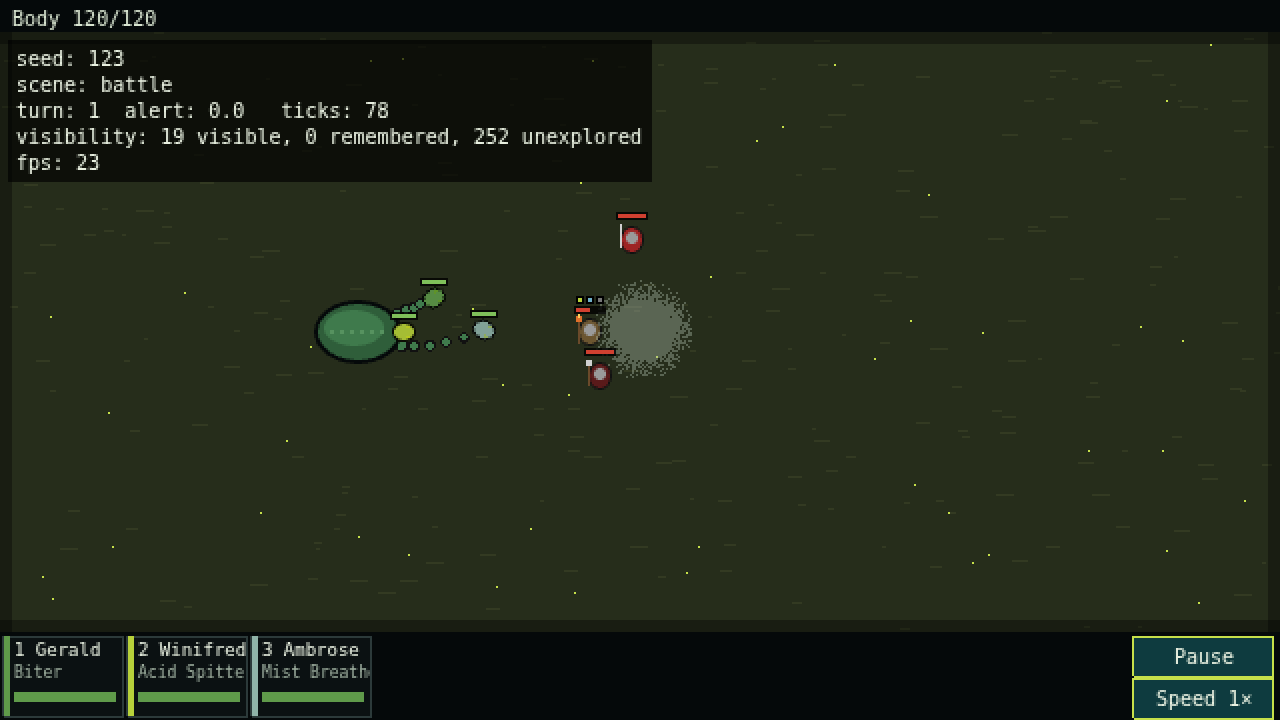
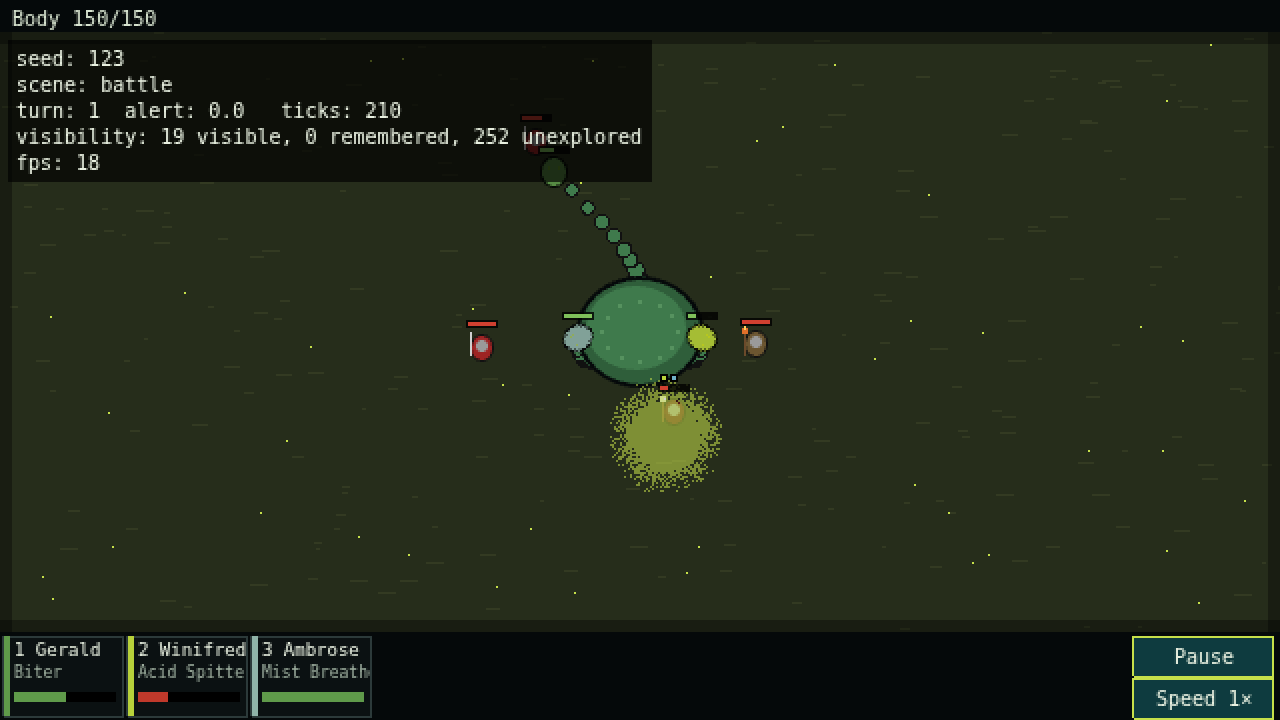
Add smoke test and balance report commands
npm run smoke plays the built game like a player (map, two battles with
orders, a defeat and a new run). npm run balance plays 200 automatic
battles per enemy group, with and without orders, and writes
docs/BALANCE.md. README points to the renamed repo (lucid-academy/hydra).

diff --git a/scripts/balance.ts b/scripts/balance.ts
@@ -1,0 +1,129 @@
+// Balance report: plays many automatic battles against every enemy group from src/data/enemies.json
+// and shows how they end. Run it after changing numbers in src/data/:  npm run balance
+// It prints a table and saves the same table to docs/BALANCE.md (scripts/balance.mjs does the running and saving).
+//
+// Two "players" are compared:
+//   - "no orders":  the hydra is left alone, heads pick their own targets.
+//   - "focus fire": every head that can reach is ordered onto one enemy at a time
+//                   (Torchbearers first, then Headhunters, then the weakest). A simple stand-in for a careful player.
+// If "focus fire" is not clearly better than "no orders", the player's orders don't matter enough.
+
+import { loadGameData } from '../src/data';
+import { battleRulesFrom } from '../src/data/battleRules';
+import { runRulesFrom } from '../src/data/runRules';
+import { applyCommand, createBattle, distance, neckReach, stepBattle } from '../src/sim/battle';
+import type { BattleRules, BattleState, Enemy } from '../src/sim/battle';
+import { hex } from '../src/sim/hex';
+import { createRun, pendingBattleSetup } from '../src/sim/turn';
+
+/** A battle still running after this many seconds of game time counts as a stalemate. */
+const TIME_LIMIT_SECONDS = 600;
+
+type Policy = 'no orders' | 'focus fire';
+const POLICIES: Policy[] = ['no orders', 'focus fire'];
+
+const data = loadGameData();
+const rules = battleRulesFrom(data);
+const runRules = runRulesFrom(data);
+
+/** Lower number = kill first. */
+function priority(enemy: Enemy, r: BattleRules): number {
+  const behavior = r.enemyTypes[enemy.typeId]!.behavior;
+  return behavior === 'torchbearer' ? 0 : behavior === 'headhunter' ? 1 : 2;
+}
+
+function giveFocusOrders(state: BattleState, r: BattleRules): void {
+  for (const head of state.heads) {
+    const range = r.headClasses[head.classId]!.attack.range;
+    const inReach = state.enemies.filter((e) => distance(state.body.pos, e.pos) <= neckReach(r) + range + r.enemyTypes[e.typeId]!.radius);
+    inReach.sort((a, b) => priority(a, r) - priority(b, r) || a.hp - b.hp || a.id - b.id);
+    const target = inReach[0];
+    if (!target) {
+      if (head.orderTargetId !== null) applyCommand(state, { type: 'clearOrder', headId: head.id }, r);
+    } else if (head.orderTargetId !== target.id) {
+      applyCommand(state, { type: 'attack', headId: head.id, enemyId: target.id }, r);
+    }
+  }
+}
+
+interface Totals {
+  won: number;
+  lost: number;
+  stalemate: number;
+  seconds: number;
+  severed: number;
+  cauterized: number;
+  combos: number;
+  headsAtEnd: number;
+  bodyHpLost: number;
+}
+
+function play(groupId: string, policy: Policy, battles: number): Totals {
+  const t: Totals = { won: 0, lost: 0, stalemate: 0, seconds: 0, severed: 0, cauterized: 0, combos: 0, headsAtEnd: 0, bodyHpLost: 0 };
+  for (let seed = 1; seed <= battles; seed++) {
+    // The same start as in the game: a fresh hydra with its starting heads walks into this group.
+    const run = createRun(seed, runRules);
+    run.pendingBattle = { at: hex(0, 0), groupId };
+    const state = createBattle(pendingBattleSetup(run, runRules)!, rules);
+    const startHp = state.body.hp;
+    while (!state.outcome && state.tick < TIME_LIMIT_SECONDS * rules.ticksPerSecond) {
+      // A player re-thinks orders now and then, not twenty times a second.
+      if (policy === 'focus fire' && state.tick % 10 === 0) giveFocusOrders(state, rules);
+      stepBattle(state, rules);
+      for (const event of state.events) {
+        if (event.type === 'severed') t.severed++;
+        else if (event.type === 'cauterized') t.cauterized++;
+        else if (event.type === 'combo') t.combos++;
+      }
+    }
+    if (state.outcome === 'won') t.won++;
+    else if (state.outcome === 'lost') t.lost++;
+    else t.stalemate++;
+    t.seconds += state.tick / rules.ticksPerSecond;
+    t.headsAtEnd += state.heads.length;
+    t.bodyHpLost += startHp - Math.max(0, state.body.hp);
+  }
+  return t;
+}
+
+/** Plays `battles` battles per enemy group and player, and returns the results as a Markdown table and a full report. */
+export function balanceReport(battles = 200): { table: string; report: string } {
+  const header = ['Enemy group', 'Members', 'Player', 'Won', 'Lost', 'Avg. length', 'Heads severed', 'Stumps burnt', 'Combos', 'Body HP lost'];
+  const rows: string[][] = [];
+  for (const group of data.enemies.encounterGroups) {
+    for (const policy of POLICIES) {
+      const t = play(group.id, policy, battles);
+      const avg = (value: number) => (value / battles).toFixed(1);
+      const percent = (value: number) => `${Math.round((value / battles) * 100)}%`;
+      rows.push([
+        group.id,
+        group.members.map((id) => data.enemies.types[id]!.displayName).join(', '),
+        policy,
+        percent(t.won),
+        percent(t.lost) + (t.stalemate > 0 ? ` (+${percent(t.stalemate)} never ended)` : ''),
+        `${Math.round(t.seconds / battles)} s`,
+        avg(t.severed),
+        avg(t.cauterized),
+        avg(t.combos),
+        avg(t.bodyHpLost),
+      ]);
+    }
+  }
+
+  const table = [header, header.map(() => '---'), ...rows].map((cells) => `| ${cells.join(' | ')} |`).join('\n');
+  const startingHeads = data.heads.startingHeads.map((id) => data.heads.classes[id]!.displayName).join(', ');
+  const report = `# Balance report
+
+Made by \`npm run balance\` from the numbers in \`src/data/\`. Run it again after changing them; don't edit this file by hand.
+
+${battles} automatic battles per row, each with a fresh hydra (${startingHeads}) and ${data.balance.battle.bodyMaxHp} body HP.
+
+- **no orders:** the hydra is left alone, heads pick their own targets.
+- **focus fire:** every head that can reach attacks the same enemy (Torchbearers first, then Headhunters). A stand-in for a careful player.
+
+"Heads severed", "Stumps burnt", "Combos" and "Body HP lost" are averages per battle.
+
+${table}
+`;
+  return { table, report };
+}

diff --git a/docs/ASSETS.md b/docs/ASSETS.md
@@ -79,6 +79,10 @@ Prompt sketch: *"Pixel art game tile, 28x32 pixels, pointy-top hexagon, top-down
 
 A tiny hydra seen from above-front: a squat dark green body with **three heads** on short necks, eyes glowing yellow-green. Must read clearly at 20 px against teal and olive tiles; a dark outline helps.
 
+## Battle graphics: wait before drawing them
+
+> **Status (2026-09-30):** the battle screen may change from this top-down view to a slanted view with a hex grid (see the open decision in the project chat). Everything below describes the current top-down placeholders. **Don't generate final battle graphics yet**: their sizes and viewing angle would change.
+
 ## Battle arenas: battle_arena_water, battle_arena_mud
 
 | | |
@@ -94,7 +98,7 @@ The floor of the fight, seen **straight from above**. Which one is used depends 
 - **battle_arena_water:** a flooded cave: murky deep teal water, lighter teal ripple lines, a few glowing yellow-green spores.
 - **battle_arena_mud:** dark olive swamp mud, lighter clumps, a few glowing yellow-green spores.
 
-Keep the floor **quiet and low-contrast**: heads, necks, soldiers and HP bars are drawn on top and must stay readable. The outer ~6 px can be darker, like cave walls closing in. No objects that look like obstacles: the whole arena is walkable. The hydra starts on the left (around x 180, y 150), the Order on the right (around x 420).
+Keep the floor **quiet and low-contrast**: heads, necks, soldiers and HP bars are drawn on top and must stay readable. The outer ~6 px can be darker, like cave walls closing in. No objects that look like obstacles: the whole arena is walkable. The hydra sits in the middle (x 320, y 150) and the Order starts near the edges, all around it.
 
 Prompt sketch: *"Pixel art, 640x300, top-down view, hard pixels, no anti-aliasing. Floor of a [flooded cave, murky deep teal water with faint ripples / dark olive swamp mud with small clumps], scattered tiny yellow-green bioluminescent spores, darker edges. Low contrast, empty, no objects. Dark fantasy underground swamp."*
 
@@ -102,21 +106,21 @@ Prompt sketch: *"Pixel art, 640x300, top-down view, hard pixels, no anti-aliasin
 
 | | |
 |---|---|
-| Size | 44×32 px |
+| Size | 64×56 px |
 | Frames | 1 (static for now) |
-| Anchor | centre (22, 16) |
+| Anchor | centre (32, 28) |
 | Background | transparent |
 | Used in | battle screen, the hydra's Body |
 
-The hydra's torso **seen from above**, without heads or necks (the game draws the necks itself, starting at the body's edge, and the heads are separate sprites). A squat, dark green oval mass with a paler ridge of scales along the back and a dark outline. It faces right, but necks can leave it in any direction, so keep the outline roughly oval with no head-shaped bumps.
+The hydra's torso **seen from above**, without heads or necks (the game draws the necks itself, starting at the body's edge, and the heads are separate sprites). A squat, dark green, almost round mound with paler scales and a dark outline. It has no front or back: necks leave it evenly in every direction and soldiers stand all around it, so keep the outline a plain oval with no head-shaped bumps and no tail.
 
 ## battle_head
 
 | | |
 |---|---|
-| Size | 12×12 px |
+| Size | 16×16 px |
 | Frames | 1 (static for now) |
-| Anchor | centre (6, 6); the game rotates the sprite around it |
+| Anchor | centre (8, 8); the game rotates the sprite around it |
 | Background | transparent |
 | Used in | battle screen, one per head |
 
@@ -144,9 +148,9 @@ A new enemy type needs a graphic with the key `battle_enemy_<type id from enemie
 
 | | |
 |---|---|
-| Size | 8×8 px each |
+| Size | 10×10 px each |
 | Frames | 1 |
-| Anchor | centre (4, 4) |
+| Anchor | centre (5, 5) |
 | Background | transparent |
 | Used in | battle screen, at the body's edge where a head was severed |
 
@@ -163,4 +167,4 @@ A new enemy type needs a graphic with the key `battle_enemy_<type id from enemie
 | Background | transparent |
 | Used in | battle screen, where a Mist Breather's breath lands |
 
-A round puff of mist **seen from above**: solid in the middle, breaking up into scattered pixels towards the edge (dithering, not a smooth gradient), transparent corners. Draw it in **white / very pale grey**: the game tints it pale greenish grey for plain Mist and yellow-green when it turns into Acid Fog, and draws it half see-through over heads and soldiers. The game also scales it to the cloud radius from `src/data/combos.json` (now 26 px, so the sprite is shown at about 52×52).
+A round puff of mist **seen from above**: solid in the middle, breaking up into scattered pixels towards the edge (dithering, not a smooth gradient), transparent corners. Draw it in **white / very pale grey**: the game tints it pale greenish grey for plain Mist and yellow-green when it turns into Acid Fog, and draws it half see-through over heads and soldiers. The game also scales it to the cloud radius from `src/data/combos.json` (now 30 px, so the sprite is shown at about 60×60).

diff --git a/docs/BALANCE.md b/docs/BALANCE.md
@@ -1,0 +1,21 @@
+# Balance report
+
+Made by `npm run balance` from the numbers in `src/data/`. Run it again after changing them; don't edit this file by hand.
+
+200 automatic battles per row, each with a fresh hydra (Biter, Acid Spitter, Mist Breather) and 150 body HP.
+
+- **no orders:** the hydra is left alone, heads pick their own targets.
+- **focus fire:** every head that can reach attacks the same enemy (Torchbearers first, then Headhunters). A stand-in for a careful player.
+
+"Heads severed", "Stumps burnt", "Combos" and "Body HP lost" are averages per battle.
+
+| Enemy group | Members | Player | Won | Lost | Avg. length | Heads severed | Stumps burnt | Combos | Body HP lost |
+| --- | --- | --- | --- | --- | --- | --- | --- | --- | --- |
+| patrol | Man-at-Arms, Man-at-Arms, Man-at-Arms | no orders | 100% | 0% | 41 s | 3.1 | 0.0 | 5.7 | 23.9 |
+| patrol | Man-at-Arms, Man-at-Arms, Man-at-Arms | focus fire | 100% | 0% | 39 s | 1.8 | 0.0 | 6.4 | 35.3 |
+| huntingParty | Man-at-Arms, Headhunter, Headhunter | no orders | 100% | 0% | 32 s | 3.8 | 0.0 | 5.4 | 9.8 |
+| huntingParty | Man-at-Arms, Headhunter, Headhunter | focus fire | 100% | 0% | 32 s | 2.2 | 0.0 | 6.7 | 24.4 |
+| burningDetail | Man-at-Arms, Man-at-Arms, Torchbearer, Headhunter | no orders | 97% | 3% | 45 s | 5.0 | 0.6 | 5.9 | 47.1 |
+| burningDetail | Man-at-Arms, Man-at-Arms, Torchbearer, Headhunter | focus fire | 100% | 0% | 41 s | 2.1 | 0.0 | 9.2 | 54.4 |
+| lostNovices | Torchbearer, Torchbearer | no orders | 100% | 0% | 13 s | 0.0 | 0.0 | 4.3 | 0.0 |
+| lostNovices | Torchbearer, Torchbearer | focus fire | 100% | 0% | 12 s | 0.0 | 0.0 | 6.1 | 1.7 |

diff --git a/README.md b/README.md
@@ -2,11 +2,12 @@
 
 Browser roguelite: you are a hydra from an underground swamp, fighting the Order of the Eternal Flame.
 
-Play: https://lucid-academy.github.io/Hydra/
+Play: https://lucid-academy.github.io/hydra/
 
 - Design: [GAME_DESIGN.md](GAME_DESIGN.md)
 - Working rules: [CLAUDE.md](CLAUDE.md)
 - Graphics spec: [docs/ASSETS.md](docs/ASSETS.md)
+- Balance report: [docs/BALANCE.md](docs/BALANCE.md)
 
 ## Commands
 
@@ -17,6 +18,8 @@ npm run typecheck  # TypeScript checks
 npm test           # unit tests
 npm run build      # production build into dist/
 npm run shots      # screenshots of the built game into docs/screens/
+npm run smoke      # plays the built game like a player: map, battles, defeat (add "-- phone" for a phone-sized screen)
+npm run balance    # many automatic battles per enemy group; results go to docs/BALANCE.md
 ```
 
-URL parameters: `?seed=123` (replay a run), `?scene=title` (start in a scene: `title`, `map`, `battle`), `?debug=1` (debug overlay), `?scene=battle&group=patrol` (test battle against an enemy group from `src/data/enemies.json`).
+URL parameters: `?seed=123` (replay a run), `?scene=title` (start in a scene: `title`, `map`, `battle`), `?debug=1` (debug overlay), `?scene=battle&group=patrol` (test battle against an enemy group from `src/data/enemies.json`), `&hp=5` (start that test battle with 5 body HP), `?speed=4` (battles run 4× faster).
